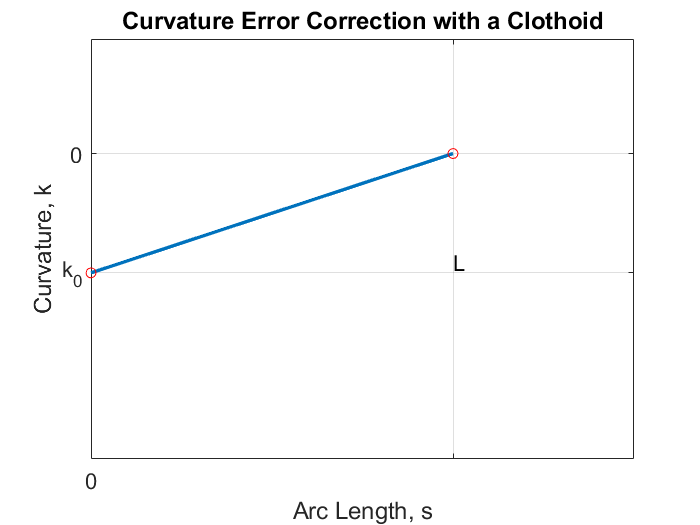
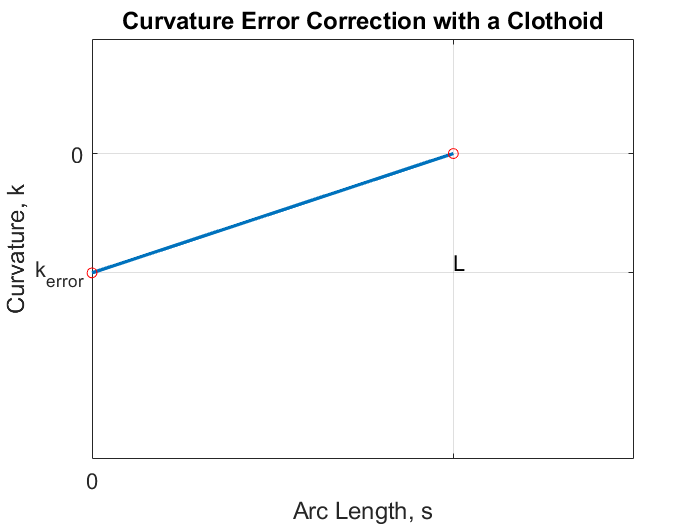
plots added and better visualized

diff --git a/MATLAB/plotGenerate/plotHCCorrection.m b/MATLAB/plotGenerate/plotHCCorrection.m
@@ -1,0 +1,160 @@
+close all
+%% case 1
+% Define the given parameters
+L = 10;      % Length (you can adjust this value as needed)
+k_ri = 3;    % Starting value for the first line
+k_rf = 7;    % Ending value for both lines
+k_i = 1;     % Starting value for the second line
+
+% Define the points for the lines
+x = [0, L];
+y1 = [k_ri, k_rf];
+y2 = [k_i, k_rf];
+
+% Create the figure
+figure;
+hold on;
+
+xp = [0, L, 0];
+yp = [k_i, k_rf, k_ri];
+fill(xp, yp, [0 0.6 0],'FaceAlpha',0.5); % 'g' specifies the color green
+centroidX = mean(xp);
+centroidY = mean(yp);
+
+% Add text inside the polygon
+text(centroidX, centroidY, 'A', 'HorizontalAlignment', 'center', 'FontSize', 13);
+% Plot the first line
+plot(x, y1, 'b', 'LineWidth', 2.5);
+
+% Plot the second line
+plot(x, y2, 'r--', 'LineWidth', 2.5);
+
+
+% Set axis limits
+xlim([0 L*1.1]);
+ylim([-k_i k_rf*1.1]);
+
+% Remove numbers from the axes
+set(gca, 'XTick', [0 L]);
+set(gca, 'YTick', [0 k_i k_ri k_rf]);
+
+yticklabels({'0','k_i','k_r_i','k_r_f'})
+xticklabels({'0','L'})
+
+% Label the important points
+% text(0, k_ri, 'k_{ri}', 'VerticalAlignment', 'bottom', 'HorizontalAlignment', 'right', 'FontSize', 12);
+% text(0, k_i, 'k_{i}', 'VerticalAlignment', 'bottom', 'HorizontalAlignment', 'right', 'FontSize', 12);
+% text(L, k_rf, 'k_{rf}', 'VerticalAlignment', 'bottom', 'HorizontalAlignment', 'right', 'FontSize', 12);
+% text(0, 0, '0', 'VerticalAlignment', 'top', 'HorizontalAlignment', 'right', 'FontSize', 12);
+% text(L, 0, 'L', 'VerticalAlignment', 'top', 'HorizontalAlignment', 'right', 'FontSize', 12);
+
+% Add axis labels using the given letters
+xlabel('Arc Length (m)',"FontSize",13);
+ylabel('Curvature (m^-^1)',"FontSize",13);
+title("Road Curvature and Desired Vehicle Curvature","FontSize",13)
+
+
+% Display the grid for reference
+grid on;
+
+% Plot dummy points for the legend
+h1 = plot(nan, nan, 'b', 'LineWidth', 1.2);
+h2 = plot(nan, nan, 'r', 'LineWidth', 1.2);
+
+% Create a legend with only the dummy points
+legend([h1, h2], {'Road Curvature', 'Vehicle Curvature'}, 'Location', 'Best');
+
+% Hold off to stop adding more plots
+hold off;
+%% case 2
+% Define the given parameters
+L = 10;      % Length (you can adjust this value as needed)
+L1 = 6;      % Length (you can adjust this value as needed)
+k_ri = 3;    % Starting value for the first line
+k_rf = 7;    % Ending value for both lines
+k_i = 5;     % Starting value for the second line
+k_intermediate = 4;
+% Define the points for the lines
+x = [0, L];
+y = [k_ri, k_rf];
+
+x1 = [0, L1];
+y1 = [k_i, k_intermediate];
+
+x2 = [L1, L];
+y2 = [k_intermediate, k_rf];
+
+% Create the figure
+figure;
+hold on;
+
+
+xp = [0, 60/17, 0];
+yp = [k_i, 75/17, k_ri];
+fill(xp, yp, [0 0.6 0],'FaceAlpha',0.5); % 'g' specifies the color green
+centroidX = mean(xp);
+centroidY = mean(yp);
+% Add text inside the polygon
+text(centroidX, centroidY, 'A_1', 'HorizontalAlignment', 'center', 'FontSize', 13);
+
+xp = [60/17, 6, 6];
+yp = [75/17, 27/5, 4];
+fill(xp, yp, [0 0.6 0],'FaceAlpha',0.5); % 'g' specifies the color green
+centroidX = mean(xp);
+centroidY = mean(yp);
+% Add text inside the polygon
+text(centroidX, centroidY, 'A_2', 'HorizontalAlignment', 'center', 'FontSize', 13);
+
+xp = [6, 6, 10];
+yp = [4, 27/5, 7];
+fill(xp, yp, [0 0.6 0],'FaceAlpha',0.5); % 'g' specifies the color green
+centroidX = mean(xp);
+centroidY = mean(yp);
+% Add text inside the polygon
+text(centroidX, centroidY, 'A_3', 'HorizontalAlignment', 'center', 'FontSize', 13);
+
+
+% Plot the first line road
+plot(x, y, 'b', 'LineWidth', 2.5);
+
+% Plot the second line first man
+plot(x1, y1, 'r--', 'LineWidth', 2.5);
+% Plot the second line first man
+plot(x2, y2, 'r--', 'LineWidth', 2.5);
+
+% Set axis limits
+xlim([0 L*1.1]);
+ylim([-k_i k_rf*1.1]);
+
+% Remove numbers from the axes
+set(gca, 'XTick', [0 L1, L]);
+set(gca, 'YTick', [0 k_ri k_intermediate k_i  k_rf]);
+
+yticklabels({'0','k_r_i','k_i_n_t','k_i','k_r_f'})
+xticklabels({'0','l1','L'})
+
+% Label the important points
+% text(0, k_ri, 'k_{ri}', 'VerticalAlignment', 'bottom', 'HorizontalAlignment', 'right', 'FontSize', 12);
+% text(0, k_i, 'k_{i}', 'VerticalAlignment', 'bottom', 'HorizontalAlignment', 'right', 'FontSize', 12);
+% text(L, k_rf, 'k_{rf}', 'VerticalAlignment', 'bottom', 'HorizontalAlignment', 'right', 'FontSize', 12);
+% text(0, 0, '0', 'VerticalAlignment', 'top', 'HorizontalAlignment', 'right', 'FontSize', 12);
+% text(L, 0, 'L', 'VerticalAlignment', 'top', 'HorizontalAlignment', 'right', 'FontSize', 12);
+
+% Add axis labels using the given letters
+xlabel('Arc Length (m)',"FontSize",13);
+ylabel('Curvature (m^-^1)',"FontSize",13);
+title("Road Curvature and Desired Vehicle Curvature","FontSize",13)
+
+
+% Display the grid for reference
+grid on;
+
+% Plot dummy points for the legend
+h1 = plot(nan, nan, 'b', 'LineWidth', 1.2);
+h2 = plot(nan, nan, 'r', 'LineWidth', 1.2);
+
+% Create a legend with only the dummy points
+legend([h1, h2], {'Road Curvature', 'Vehicle Curvature'}, 'Location', 'Best');
+
+% Hold off to stop adding more plots
+hold off;

diff --git a/MATLAB/plotGenerate/plotFitArcSplineCurvatures.m b/MATLAB/plotGenerate/plotFitArcSplineCurvatures.m
@@ -41,7 +41,7 @@ ylim([-1.1*max(k), 1.1*max(k)]);
 xlim([0 L*1.5])
 % Remove all ticks and labels
 set(gca, 'XTick', [0 L], 'YTick', [k1/2 k2/2]);
-yticklabels({'k_0','0'})
+yticklabels({'k_e_r_r_o_r','0'})
 xticklabels({'0',''})
 set(gca, 'FontSize', 13);
 hold off;   
